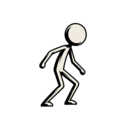
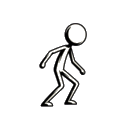
fix(sprites): remove white backgrounds and fix animation timing
- Fixed 6 flipbook frames with white backgrounds (coil-2,3,5 and bolt-0,1,2)
- Fixed all noir frames with cream backgrounds
- Regenerated sprite sheets with proper transparency
- Improved animation controller to let impact animation finish
- Reduced frame rates for smoother animations

diff --git a/src/game/engine/spriteConfig.ts b/src/game/engine/spriteConfig.ts
@@ -41,31 +41,31 @@ export const ANIMATIONS: AnimationConfig[] = [
   {
     name: 'idle',
     frames: [0, 1, 2, 3],
-    frameRate: 8,
+    frameRate: 4,  // Slow breathing animation
     loop: true,
   },
   {
     name: 'coil',
     frames: [4, 5, 6, 7, 8, 9],
-    frameRate: 12,
+    frameRate: 8,  // Slower wind-up
     loop: false,
   },
   {
     name: 'bolt',
     frames: [10, 11, 12],
-    frameRate: 12,
+    frameRate: 8,  // Slower flight cycle
     loop: true,
   },
   {
     name: 'impact',
     frames: [13, 14, 15, 16, 17],
-    frameRate: 15,
+    frameRate: 10,  // Slower landing
     loop: false,
   },
   {
     name: 'fail',
     frames: [18, 19, 20, 21],
-    frameRate: 10,
+    frameRate: 8,  // Slower tumble
     loop: false,
   },
 ];

diff --git a/src/game/engine/animationController.ts b/src/game/engine/animationController.ts
@@ -22,7 +22,13 @@ export function getDesiredAnimation(state: GameState): AnimationName {
     return 'bolt';
   }
 
-  if (state.landingFrame > 0 && state.landingFrame < 15 && !state.fellOff) {
+  // Show impact animation after landing, and let it finish before switching to idle
+  if (state.landingFrame > 0 && !state.fellOff) {
+    return 'impact';
+  }
+
+  // If impact animation is still playing, keep showing it until it finishes
+  if (state.zenoAnimator?.currentAnimation === 'impact' && !state.zenoAnimator.isFinished()) {
     return 'impact';
   }
 
